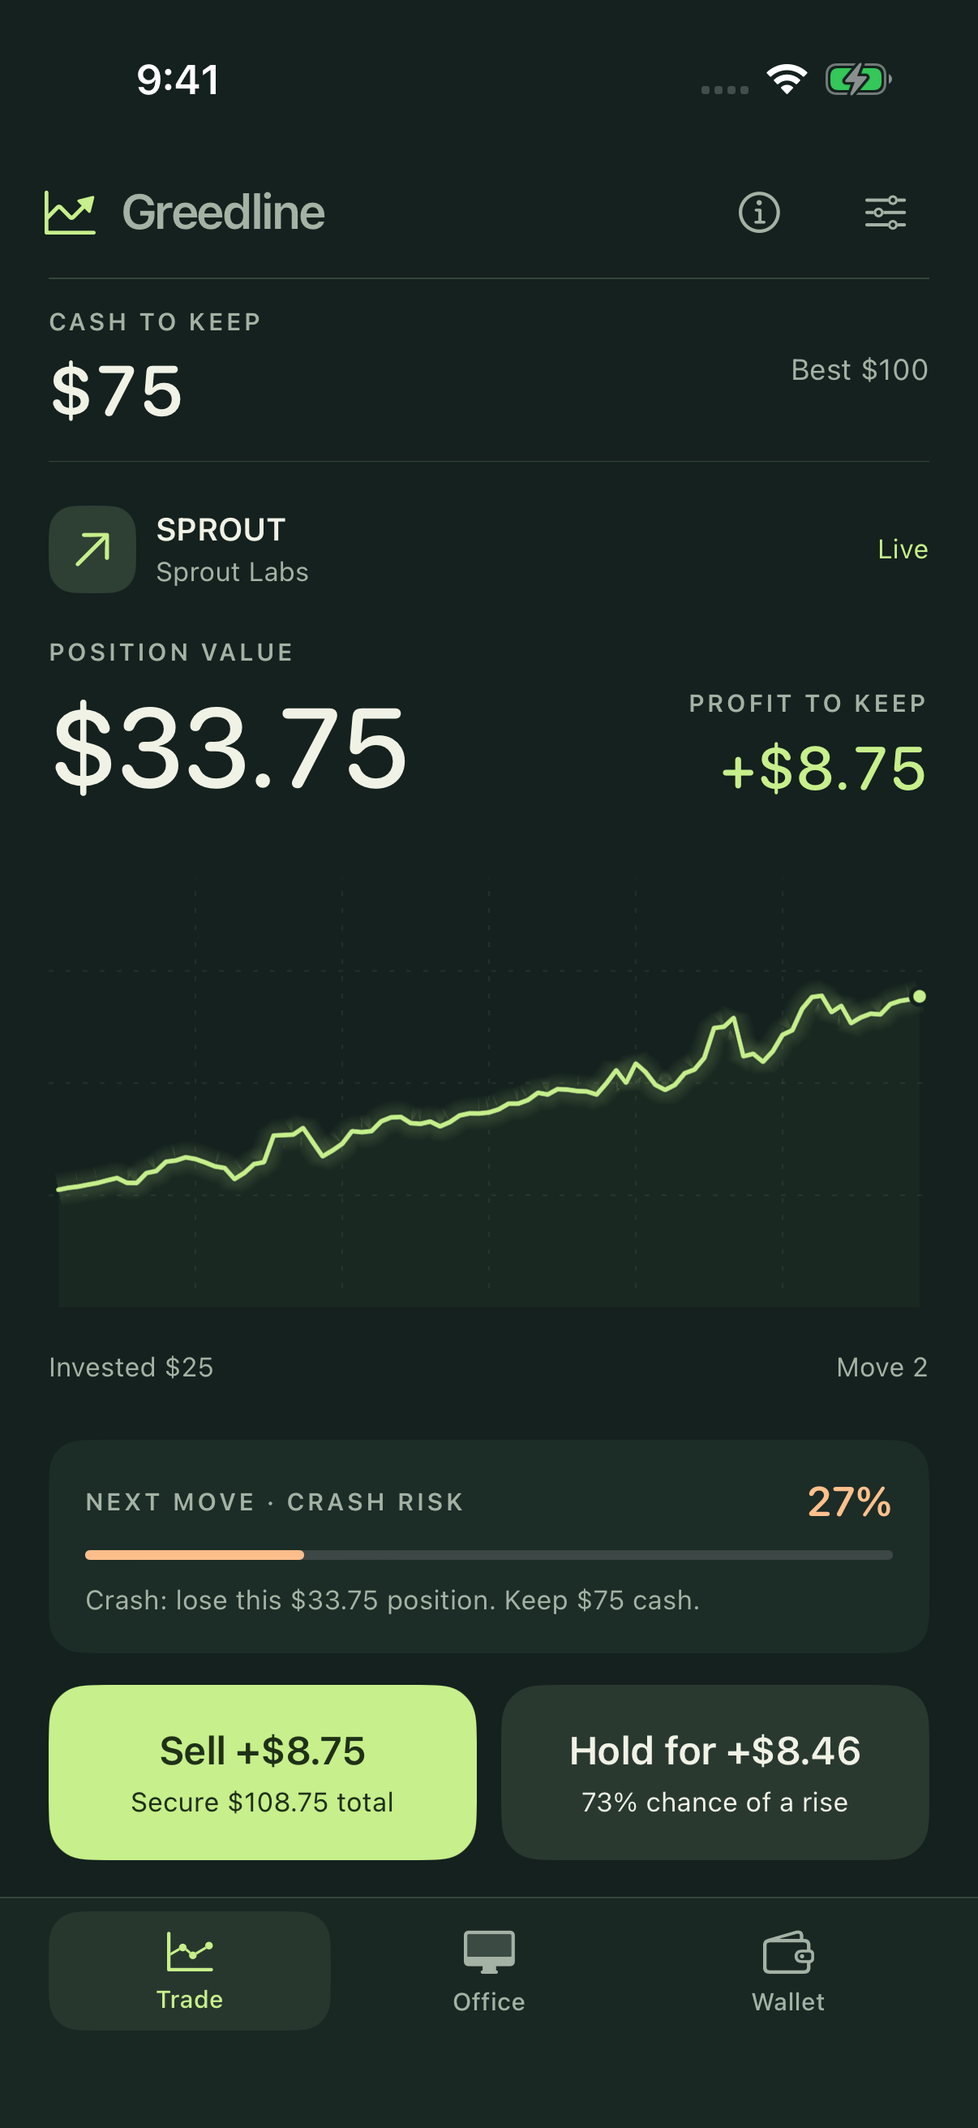
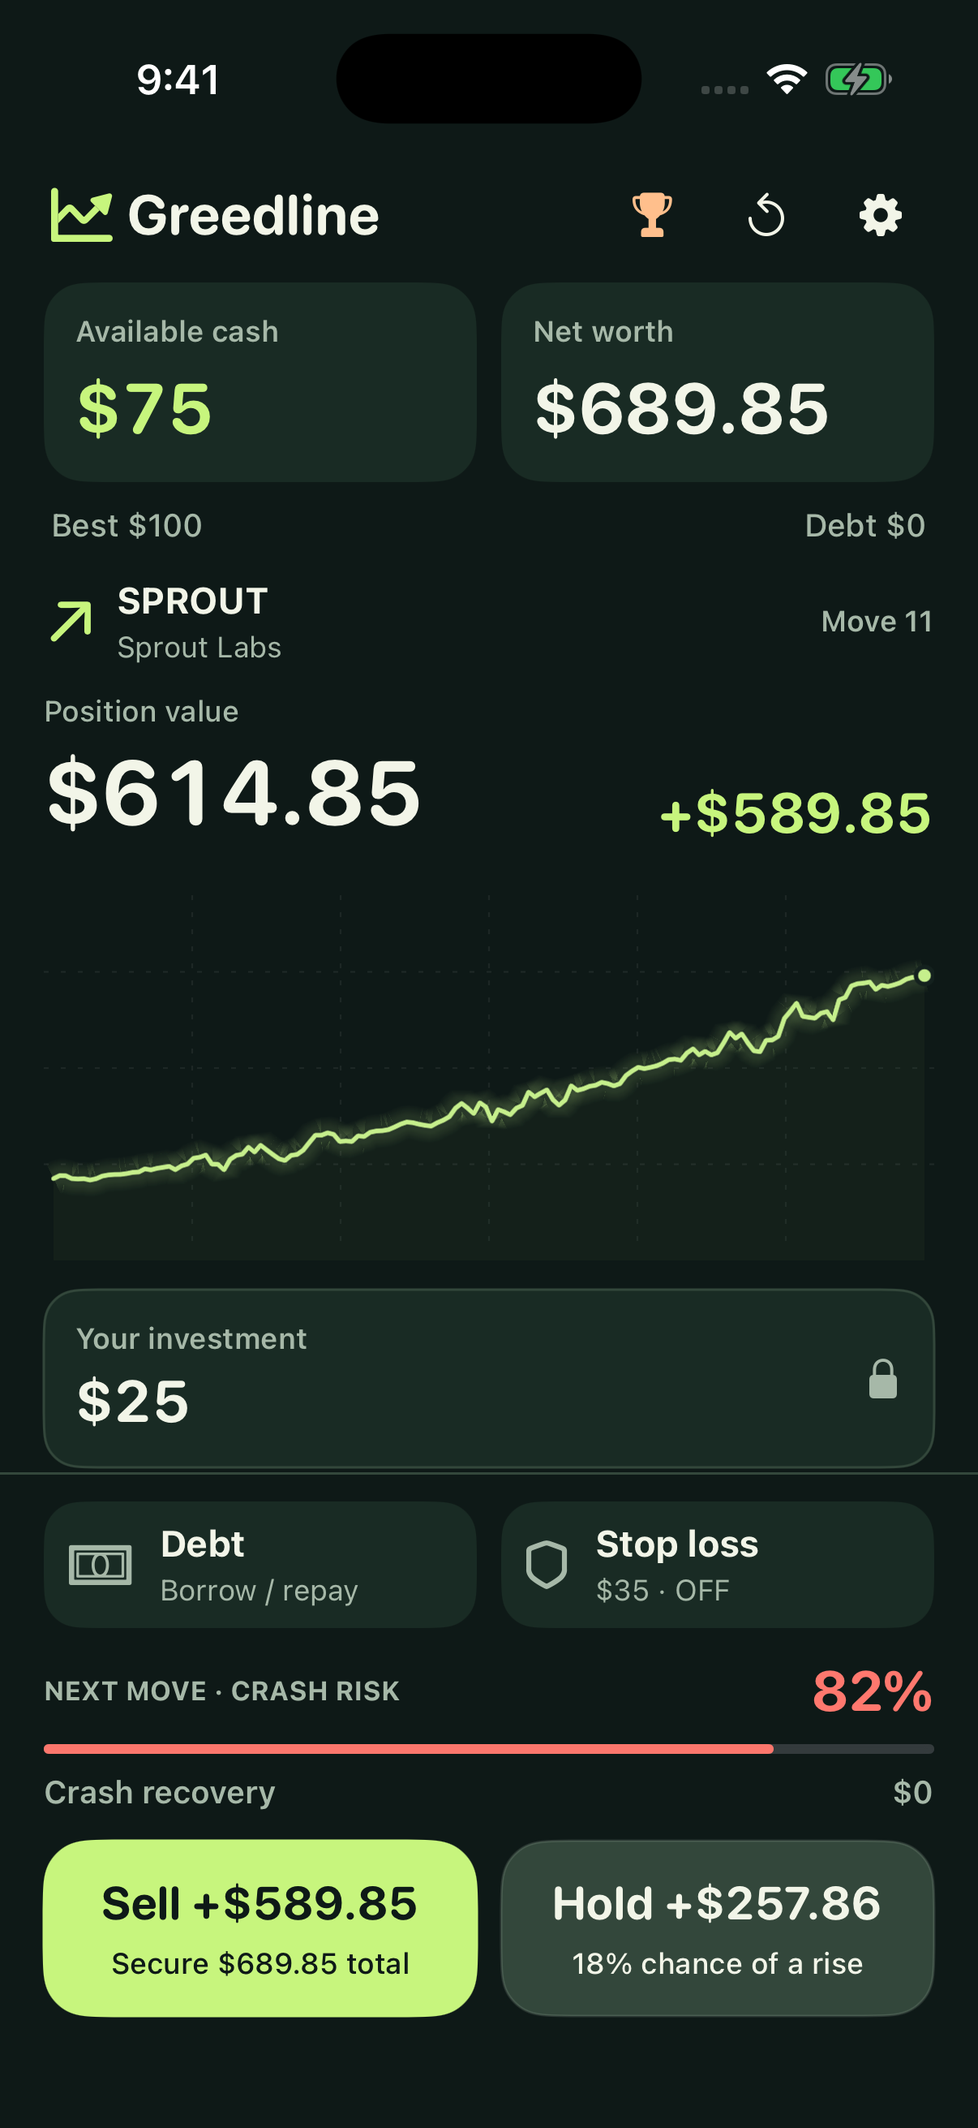
Update Greedline website for streamlined gameplay and challenges

diff --git a/support.html b/support.html
@@ -1,8 +1,10 @@
 <!doctype html>
-<html lang="en"><head><meta charset="utf-8"><meta name="viewport" content="width=device-width,initial-scale=1"><meta name="theme-color" content="#14211e"><title>Support & how to play — Greedline</title><meta name="description" content="Get help with Greedline, learn the trading and protection rules, and contact Debugger Society."><meta property="og:title" content="Support & how to play — Greedline"><meta property="og:description" content="Get help with Greedline, learn the trading and protection rules, and contact Debugger Society."><meta property="og:type" content="website"><link rel="icon" href="assets/app-icon.png"><link rel="apple-touch-icon" href="assets/app-icon.png"><link rel="stylesheet" href="assets/styles.css"></head><body><a class="skip" href="#main">Skip to content</a><header class="header wrap"><a class="brand" href="index.html"><img src="assets/app-icon.png" width="38" height="38" alt="">Greedline</a><nav class="nav" aria-label="Main navigation"><a href="index.html#how-to-play" class="how-link">The game</a><a href="support.html" aria-current="page">Support</a><a href="privacy.html">Privacy</a></nav></header><main id="main" class="wrap"><div class="doc-head"><p class="eyebrow">A little help, if you need it.</p><h1>Let's get you<br>back to trading.</h1><p class="lede">A question, a bug, or an idea for the next move? You can reach the developer directly.</p></div><div class="support-body"><div><div class="contact-card"><h2>Say hello.</h2><p>For help with Greedline | Stock Market Game, email <a href="mailto:debuggersociety@zohomail.com">debuggersociety@zohomail.com</a>.</p><a class="button" href="mailto:debuggersociety@zohomail.com?subject=Greedline%20support">Get in touch ↗</a><p>For a bug report, include your iPhone model, iOS version, app version, and what happened. A screenshot can help. Please avoid sending sensitive information.</p></div></div><section><h2>Good questions.</h2><details><summary>How do I play?</summary><p>Start with $100. Tap the investment amount to choose how much to put into a trade, then tap Invest. Every move, including the first, either pays the exact offered gain or crashes the whole position. Each successful hold increases the next gain and the next crash risk, up to 82%. Sell to secure your profit, or Hold for the displayed gain and chance of a rise. The secured total is cash before outstanding debt; Wallet shows net worth. There is no fixed number of moves or rounds.</p></details>
+<html lang="en"><head><meta charset="utf-8"><meta name="viewport" content="width=device-width,initial-scale=1"><meta name="theme-color" content="#14211e"><title>Support & how to play — Greedline</title><meta name="description" content="Get help with Greedline, learn the trading and protection rules, and contact Debugger Society."><meta property="og:title" content="Support & how to play — Greedline"><meta property="og:description" content="Get help with Greedline, learn the trading and protection rules, and contact Debugger Society."><meta property="og:type" content="website"><link rel="icon" href="assets/app-icon.png"><link rel="apple-touch-icon" href="assets/app-icon.png"><link rel="stylesheet" href="assets/styles.css"></head><body><a class="skip" href="#main">Skip to content</a><header class="header wrap"><a class="brand" href="index.html"><img src="assets/app-icon.png" width="38" height="38" alt="">Greedline</a><nav class="nav" aria-label="Main navigation"><a href="index.html#how-to-play" class="how-link">The game</a><a href="support.html" aria-current="page">Support</a><a href="privacy.html">Privacy</a></nav></header><main id="main" class="wrap"><div class="doc-head"><p class="eyebrow">A little help, if you need it.</p><h1>Let's get you<br>back to trading.</h1><p class="lede">A question, a bug, or an idea for the next move? You can reach the developer directly.</p></div><div class="support-body"><div><div class="contact-card"><h2>Say hello.</h2><p>For help with Greedline | Stock Market Game, email <a href="mailto:debuggersociety@zohomail.com">debuggersociety@zohomail.com</a>.</p><a class="button" href="mailto:debuggersociety@zohomail.com?subject=Greedline%20support">Get in touch ↗</a><p>For a bug report, include your iPhone model, iOS version, app version, and what happened. A screenshot can help. Please avoid sending sensitive information.</p></div></div><section><h2>Good questions.</h2><details><summary>How do I play?</summary><p>Start with $100. Tap the investment amount to choose how much to put into a trade, then tap Invest. Every move, including the first, either pays the exact offered gain or crashes the whole position. Each successful hold increases the next gain and the next crash risk, up to 82%. Sell to secure your profit, or Hold for the displayed gain and chance of a rise. The secured total is cash before outstanding debt; the main screen shows net worth. There is no fixed number of moves or rounds.</p></details>
 <details><summary>What happens in a crash?</summary><p>The invested position is lost unless you have protection. Cash you kept outside the trade remains available. If a closed trade leaves you with no cash, choose to review a $100 loan or start again with $100. There is no automatic refill. Your personal best stays when you start over.</p></details>
-<details><summary>How do loans and repayments work?</summary><p>Open Wallet to request $100 at a time. Review the terms and explicitly accept each loan. Repay any amount up to your available cash and outstanding debt, even during a trade between moves. Borrowed money adds the same amount to cash and debt, so it does not increase net worth or your best score.</p><p>Each settled market move—including the first—adds 2% interest to outstanding debt, rounded up to the next cent. Interest compounds: a $100 debt becomes $102, then $104.04 after two moves. Selling, borrowing, repayments, and time away do not add interest. At $1,000 debt or more, the loan defaults and the run ends. Borrowing cannot itself reach the limit. Check the next interest charge and repay before a move would cause default.</p></details>
-<details><summary>How do protections work?</summary><p>Buy one protection between trades in Office. Stop loss costs $35 and recovers 80% of the original invested stake on a crash; Market insurance costs $90 and recovers 100%. Neither covers unsold profit or cancels debt interest. One charge lasts through successful moves and sales until consumed by a crash. Only one protection can be held at a time.</p></details>
+<details><summary>How do loans and repayments work?</summary><p>Tap Debt on the main screen. You can request $100 up to three times, then must repay all debt, including interest, to unlock three more loans. Partial repayments do not restore your allowance. You can borrow and repay between moves, even during a live trade.</p><p>Each settled move adds 2% interest, rounded up to a cent. No interest is charged for waiting, selling, borrowing, or repayment. Debt of $400 or more ends the run through default. The popup shows your next interest charge; an imminent default warning appears before a move that would cross the limit. Borrowing does not increase net worth.</p></details>
+<details><summary>How does Stop loss work?</summary><p>Tap Stop loss on the main screen to activate it for $35 of available game cash. It recovers 80% of the original investment on one crash. You may activate it during a trade between moves. It stays armed through successful sales until consumed. Unsold profit is lost and debt remains payable. Cash outside a position always stays yours.</p></details>
+<details><summary>How do challenges work?</summary><p>Tap the trophy and choose a challenge between trades. Triple banked net worth in nine trades for $50, reach five times in seven trades for $150, or ten times in five trades for $400. Your target is based on net worth when starting, with a minimum baseline of $100. One challenge can be active at a time, with one attempt at each per run.</p><p>Only selling to reach the target counts. Debt is deducted and the reward is then credited automatically. Borrowing and unrealized gains cannot complete a challenge. Each sale or crash uses one trade; holding within the same position does not. Restarting resets challenge attempts.</p></details>
+<details><summary>How do I restart?</summary><p>Tap the restart arrow beside Settings and confirm. This resets cash to $100 and clears your current position, debt, Stop loss, challenges, and run purchases. Your personal best and settings stay.</p></details>
 <details><summary>Why does the ticker dip during a winning move?</summary><p>The short rallies and pullbacks make the ticker feel alive. They are visual fluctuations within a move. The settled outcome is the exact displayed gain or a complete crash, with the odds shown before your decision. Its outcome is fixed when you tap Invest or Hold; closing the app does not reroll it.</p></details>
-<details><summary>What do streaks and desk upgrades do?</summary><p>Consecutive profitable trades add 8% to the streak component of the reward formula, up to five trades. The dual-monitor desk makes positive moves 15% larger. The offered gain already includes the streak and desk bonuses, plus the increasing reward for holding longer. Crash odds rise with prolonged exposure within a trade. Amber charts and the plant are purely visual. Purchases reset with a new run.</p></details>
-<details><summary>Where is my progress saved?</summary><p>Your run, debt, pending move, personal best, and preferences are saved on this iPhone. Updating to build 2 keeps your progress and existing protections. An unfinished build 1 move retains its original outcome; every new move follows the rise-or-crash rules. They persist across launches. There is no account or developer-operated cloud sync. We cannot recover progress that was never sent to us.</p></details><details><summary>Why can’t I hear the game?</summary><p>Greedline respects Silent Mode. Check Silent Mode, media volume, and Sound in the in-game settings. Haptics require supported hardware and can be turned off separately. Reduce effects and iOS Reduce Motion shorten ticker animations.</p></details><details><summary>Is this real investing?</summary><p>No. Greedline is a fictional game, not an investment service or a simulation of real market behavior. There are no real stocks, real-money trades, ads, or in-app payments.</p></details><details><summary>Which devices are supported?</summary><p>Greedline is made for iPhone with iOS 17 or later. The app is configured as an iPhone app, with a portrait layout.</p></details></section></div></main><footer class="footer wrap"><span>© 2026 Debugger Society. All rights reserved.</span><div><a href="index.html">The game</a><a href="support.html">Support</a><a href="privacy.html">Privacy</a></div></footer></body></html>
+<details><summary>What do streaks do?</summary><p>Consecutive profitable trades add 8% to the streak component of the reward formula, up to five trades. Every offered gain already includes the streak bonus and the increasing reward for holding longer.</p></details>
+<details><summary>Where is my progress saved?</summary><p>Your run, debt, pending move, personal best, and preferences are saved on this iPhone. Updating to build 3 keeps your progress and unfinished outcomes. Old outstanding loans keep their original default threshold until repaid, with further borrowing locked meanwhile. Old insurance becomes 80% Stop loss and refunds the $55 price difference once. Saved desk and chart upgrades are retained. They persist across launches. There is no account or developer-operated cloud sync. We cannot recover progress that was never sent to us.</p></details><details><summary>Why can’t I hear the game?</summary><p>Greedline respects Silent Mode. Check Silent Mode, media volume, and Sound in the in-game settings. Haptics require supported hardware and can be turned off separately. Reduce effects and iOS Reduce Motion shorten ticker animations.</p></details><details><summary>Is this real investing?</summary><p>No. Greedline is a fictional game, not an investment service or a simulation of real market behavior. There are no real stocks, real-money trades, ads, or in-app payments.</p></details><details><summary>Which devices are supported?</summary><p>Greedline is made for iPhone with iOS 17 or later. The app is configured as an iPhone app, with a portrait layout.</p></details></section></div></main><footer class="footer wrap"><span>© 2026 Debugger Society. All rights reserved.</span><div><a href="index.html">The game</a><a href="support.html">Support</a><a href="privacy.html">Privacy</a></div></footer></body></html>

diff --git a/index.html b/index.html
@@ -1,9 +1,9 @@
 <!doctype html>
-<html lang="en"><head><meta charset="utf-8"><meta name="viewport" content="width=device-width,initial-scale=1"><meta name="theme-color" content="#14211e"><title>Greedline | Stock Market Game</title><meta name="description" content="Bank a little profit or risk it all for one more move. Greedline is a fictional stock-market game made for iPhone. Fast trades, clear odds, and a very tempting button."><meta property="og:title" content="Greedline | Stock Market Game — How much is enough?"><meta property="og:description" content="Bank a little profit or risk it all for one more move. Greedline is a fictional stock-market game made for iPhone. Fast trades, clear odds, and a very tempting button."><meta property="og:type" content="website"><link rel="icon" href="assets/app-icon.png"><link rel="apple-touch-icon" href="assets/app-icon.png"><link rel="stylesheet" href="assets/styles.css"></head><body><a class="skip" href="#main">Skip to content</a><header class="header wrap"><a class="brand" href="index.html"><img src="assets/app-icon.png" width="38" height="38" alt="">Greedline</a><nav class="nav" aria-label="Main navigation"><a href="index.html#how-to-play" aria-current="page" class="how-link">The game</a><a href="support.html">Support</a><a href="privacy.html">Privacy</a></nav></header><main id="main" class="wrap"><section class="hero"><div><p class="eyebrow">Stock Market Game / Made for iPhone</p><h1><em>One more tick.</em></h1><p class="lede">You have $100, a tiny desk, and one very tempting decision. Choose your stake. Take the profit—or stay in for one more move.</p><a class="button" href="#how-to-play">Find your enough <span aria-hidden="true">↘</span></a><p class="platform">Coming to iPhone · iOS 17 or later</p></div><div class="phone-stage"><div class="phone"><img src="assets/gameplay.png" width="1206" height="2622" fetchpriority="high" alt="Greedline's native iPhone trading screen with a live stock ticker, cash, position value, a crash-risk meter, and large Sell and Hold controls showing exact amounts."></div></div></section>
+<html lang="en"><head><meta charset="utf-8"><meta name="viewport" content="width=device-width,initial-scale=1"><meta name="theme-color" content="#14211e"><title>Greedline | Stock Market Game</title><meta name="description" content="Bank a little profit or risk it all for one more move. Greedline is a fictional stock-market game made for iPhone. Fast trades, clear odds, and a very tempting button."><meta property="og:title" content="Greedline | Stock Market Game — How much is enough?"><meta property="og:description" content="Bank a little profit or risk it all for one more move. Greedline is a fictional stock-market game made for iPhone. Fast trades, clear odds, and a very tempting button."><meta property="og:type" content="website"><link rel="icon" href="assets/app-icon.png"><link rel="apple-touch-icon" href="assets/app-icon.png"><link rel="stylesheet" href="assets/styles.css"></head><body><a class="skip" href="#main">Skip to content</a><header class="header wrap"><a class="brand" href="index.html"><img src="assets/app-icon.png" width="38" height="38" alt="">Greedline</a><nav class="nav" aria-label="Main navigation"><a href="index.html#how-to-play" aria-current="page" class="how-link">The game</a><a href="support.html">Support</a><a href="privacy.html">Privacy</a></nav></header><main id="main" class="wrap"><section class="hero"><div><p class="eyebrow">Stock Market Game / Made for iPhone</p><h1><em>One more tick.</em></h1><p class="lede">You have $100 and one very tempting decision. Choose your stake. Take the profit—or stay in for one more move.</p><a class="button" href="#how-to-play">Find your enough <span aria-hidden="true">↘</span></a><p class="platform">Coming to iPhone · iOS 17 or later</p></div><div class="phone-stage"><div class="phone"><img src="assets/gameplay.png" width="1206" height="2622" fetchpriority="high" alt="Greedline's native iPhone trading screen with a live stock ticker, cash, position value, a crash-risk meter, and large Sell and Hold controls showing exact amounts."></div></div></section>
 <section id="how-to-play" class="section"><div class="section-top"><div><h2>A simple choice.<br></div></div><div class="cards">
 <article class="card"><span class="card-number">01 / INVEST</span><svg viewBox="0 0 220 100" aria-hidden="true"><path d="M5 83H215M5 48H215" stroke="#35473a" stroke-dasharray="3 6"/><path d="M8 80L45 68L65 73L99 47L123 55L152 25L176 34L210 8" fill="none" stroke="#c7ef8b" stroke-width="3"/><circle cx="210" cy="8" r="5" fill="#c7ef8b"/></svg><h3>Your stake. Your call.</h3><p>Start small or commit more. Every move pays the offered gain or crashes the position—even the first. A living ticker gives every trade its own rhythm.</p></article>
 <article class="card"><span class="card-number">02 / DECIDE</span><svg viewBox="0 0 220 100" aria-hidden="true"><path d="M8 67L60 54L95 60L130 40L174 12" fill="none" stroke="#c7ef8b" stroke-width="3"/><path d="M130 40L150 55L158 45L191 91L214 86" fill="none" stroke="#ffa097" stroke-width="3" stroke-dasharray="4 4"/><circle cx="130" cy="40" r="5" fill="#f1f2e6"/></svg><h3>Take it. Or tempt fate.</h3><p>Sell to lock in your profit, or hold for a larger gain and a higher crash risk. A crash loses your investment; cash kept aside stays yours.</p></article>
-<article class="card"><span class="card-number">03 / BUILD</span><svg viewBox="0 0 220 100" aria-hidden="true"><path d="M72 12L112 4L152 12V48Q150 72 112 91Q74 72 72 48Z" fill="#26382e" stroke="#c7ef8b" stroke-width="2"/><path d="M91 45L107 61L135 31" fill="none" stroke="#c7ef8b" stroke-width="3"/></svg><h3>Give ambition a safety net.</h3><p>Buy one-use protection with secured cash. Upgrade your desk, warm up the chart, and bring a little green into your office.</p></article>
+<article class="card"><span class="card-number">03 / BUILD</span><svg viewBox="0 0 220 100" aria-hidden="true"><path d="M72 12L112 4L152 12V48Q150 72 112 91Q74 72 72 48Z" fill="#26382e" stroke="#c7ef8b" stroke-width="2"/><path d="M91 45L107 61L135 31" fill="none" stroke="#c7ef8b" stroke-width="3"/></svg><h3>Give ambition a safety net.</h3><p>Activate Stop loss to recover 80% of your stake on one crash. Take on challenges for cash bonuses when you bank their targets.</p></article>
 </div></section>
-<section class="section quiet"><div><p class="eyebrow">A game of enough.</p><h2>The market moves.<br><em>You set the pace.</em></h2><p>No countdown or fixed number of rounds. No real stocks or real-money purchases. Just your position and your next decision.</p></div><ul class="benefits"><li><strong>A way back after a loss.</strong><p>Choose a fresh $100 start or request a $100 loan. Repay from Wallet. Debt adds 2% interest per market move; reaching $1,000 debt ends the run.</p></li><li><strong>Feel every little move.</strong><p>Rallies, pullbacks, and dramatic crashes bring the ticker to life. Generated sound and optional haptics make each decision land.</p></li><li><strong>Your run can wait.</strong><p>Leave the app and come back to the same trade. Your bankroll, purchases, and personal best stay on your iPhone.</p></li><li><strong>A calmer way to play.</strong><p>Turn sound or haptics off, or reduce the ticker effects. Sound respects Silent Mode.</p></li><li><strong>Open it. You're in.</strong><p>Play offline with no account required. No ads, analytics, or app data collection.</p></li></ul></section>
+<section class="section quiet"><div><p class="eyebrow">A game of enough.</p><h2>The market moves.<br><em>You set the pace.</em></h2><p>No countdown or fixed number of rounds. No real stocks or real-money purchases. Just your position and your next decision.</p></div><ul class="benefits"><li><strong>A way back after a loss.</strong><p>Request up to three $100 loans, then repay all debt to borrow again. Each move adds 2% interest; $400 debt ends the run. Restart with $100 whenever you choose.</p></li><li><strong>Feel every little move.</strong><p>Rallies, pullbacks, and dramatic crashes bring the ticker to life. Generated sound and optional haptics make each decision land.</p></li><li><strong>Your run can wait.</strong><p>Leave the app and come back to the same trade. Your bankroll, purchases, and personal best stay on your iPhone.</p></li><li><strong>A calmer way to play.</strong><p>Turn sound or haptics off, or reduce the ticker effects. Sound respects Silent Mode.</p></li><li><strong>Open it. You're in.</strong><p>Play offline with no account required. No ads, analytics, or app data collection.</p></li></ul></section>
 <aside class="closing"><div><h2>See you at the closing bell.</h2><p>Greedline | Stock Market Game · Made for iPhone.</p></div><a href="support.html">Questions? Get in touch ↗</a></aside></main><footer class="footer wrap"><span>© 2026 Debugger Society. All rights reserved.</span><div><a href="index.html">The game</a><a href="support.html">Support</a><a href="privacy.html">Privacy</a></div></footer></body></html>
